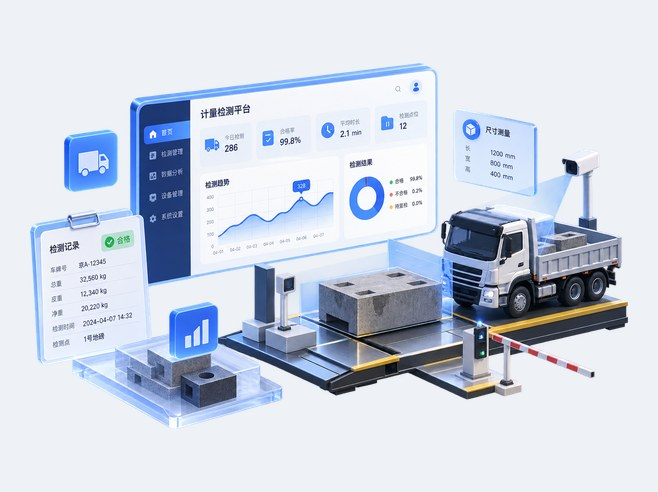
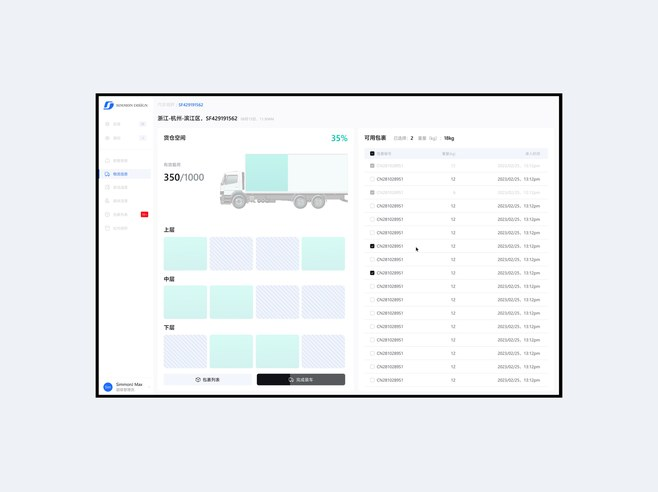
metrology: hero is the framed loading screen; cover uses the sent image
Mirrors the latest canvas save (v1789488974): the hero copy block is gone
and the grey band carries the framed cargo-space screenshot centred. The
Selected Work cover is the same shot on its grey ground, letterboxed to
658×492. Unused hero copy keys removed.

diff --git a/src/components/MetrologyPage.css b/src/components/MetrologyPage.css
@@ -24,17 +24,8 @@
 
 /* ---------- Hero ---------- */
 .mt-hero { width: 100%; background: var(--mt-stage); padding: 80px 0 0; }
-.mt-hero-content {
-  max-width: 1220px; margin: 0 auto; padding: 0 0 72px;
-  display: grid; grid-template-columns: repeat(2, minmax(0, 1fr)); gap: 48px; align-items: center;
-}
-.mt-hero-copy { display: flex; flex-direction: column; gap: 20px; }
-.mt-hero-kicker { display: flex; align-items: center; gap: 12px; font-size: 20px; color: var(--mt-body); }
-.mt-hero-mark { width: 36px; height: 36px; border-radius: 8px; background: var(--mt-blue); display: inline-flex; align-items: center; justify-content: center; flex: none; }
-.mt-hero-title { margin: 0; max-width: 560px; font-size: 56px; font-weight: 700; line-height: 1.15; letter-spacing: -0.01em; color: var(--mt-ink); }
-.mt-hero-sub { margin: 8px 0 0; font-size: 16px; color: var(--mt-muted); }
-.mt-hero-art { display: flex; align-items: center; justify-content: flex-end; }
-.mt-hero-art img { display: block; width: 100%; max-width: 640px; height: auto; }
+.mt-hero-content { max-width: 1220px; margin: 0 auto; padding: 0 0 72px; display: flex; justify-content: center; }
+.mt-hero-img { display: block; width: 100%; max-width: 953px; height: auto; }
 
 /* ---------- Main column ---------- */
 .mt-main { max-width: 1220px; margin: 0 auto; padding: 62px 0 120px; }
@@ -262,8 +253,6 @@
 
 @media (max-width: 1024px) {
   .mt-hero-content, .mt-main { padding-left: 40px; padding-right: 40px; }
-  .mt-hero-title { font-size: 44px; }
-  .mt-hero-art img { max-width: 520px; }
   .mt-photos--4 { grid-template-columns: repeat(2, minmax(0, 1fr)); }
   .mt-photos--cellar { grid-template-columns: repeat(3, minmax(0, 1fr)); }
   .mt-split--shot-left, .mt-split--shot-right { grid-template-columns: 1fr; }
@@ -276,11 +265,8 @@
 }
 
 @media (max-width: 768px) {
-  .mt-hero { padding: 96px 0 0; }
-  .mt-hero-content { grid-template-columns: 1fr; gap: 32px; padding: 0 20px 48px; }
-  .mt-hero-title { font-size: 34px; max-width: none; }
-  .mt-hero-kicker { font-size: 17px; }
-  .mt-hero-art { justify-content: center; }
+  .mt-hero { padding: 84px 0 0; }
+  .mt-hero-content { padding: 0 20px 40px; }
   .mt-main { padding: 48px 20px 80px; }
   .mt-meta { flex-wrap: wrap; gap: 24px 40px; margin-bottom: 40px; }
   .mt-title { font-size: 32px; }
@@ -317,7 +303,6 @@
 }
 
 @media (max-width: 480px) {
-  .mt-hero-title { font-size: 30px; }
   .mt-photos--4 { grid-template-columns: 1fr; }
   .mt-photo-quad { grid-template-columns: repeat(2, minmax(0, 1fr)); height: auto; }
   .mt-photo-quad img { height: 120px; }

diff --git a/src/components/MetrologyPage.jsx b/src/components/MetrologyPage.jsx
@@ -4,7 +4,7 @@ import { useCopy } from '../i18n/LanguageContext.jsx'
 import Rich from '../i18n/Rich.jsx'
 
 // Hero illustration + product screens
-import heroPlatform from '../assets/metrology/hero-platform.webp'
+import heroLoading from '../assets/metrology/hero-loading.webp'
 import uiDashboard from '../assets/metrology/ui-dashboard.jpg'
 import uiParcel from '../assets/metrology/ui-parcel.jpg'
 import uiParcelHover from '../assets/metrology/ui-parcel-hover.jpg'
@@ -99,24 +99,10 @@ export default function MetrologyPage() {
         <span>{t.back}</span>
       </a>
 
-      {/* Hero */}
+      {/* Hero — the framed loading screen, centred on the grey band */}
       <section className="mt-hero">
         <div className="mt-hero-content">
-          <div className="mt-hero-copy">
-            <div className="mt-hero-kicker">
-              <span className="mt-hero-mark" aria-hidden="true">
-                <svg width="20" height="20" viewBox="0 0 24 24" fill="none" stroke="#ffffff" strokeWidth="1.8" strokeLinecap="round" strokeLinejoin="round">
-                  <path d="M12 3v18M4 7h16M6 7l-3 7a3 3 0 0 0 6 0L6 7zM18 7l-3 7a3 3 0 0 0 6 0l-3-7z" />
-                </svg>
-              </span>
-              <span>{t.heroKicker}</span>
-            </div>
-            <h1 className="mt-hero-title">{t.heroTitle}</h1>
-            <p className="mt-hero-sub">{t.heroSub}</p>
-          </div>
-          <div className="mt-hero-art">
-            <img src={heroPlatform} alt={alts.hero} loading="eager" decoding="async" fetchpriority="high" />
-          </div>
+          <img className="mt-hero-img" src={heroLoading} alt={alts.hero} loading="eager" decoding="async" fetchpriority="high" />
         </div>
       </section>
 

diff --git a/src/i18n/copy/metrology.js b/src/i18n/copy/metrology.js
@@ -8,9 +8,6 @@ export default {
   en: {
     back: 'Back',
 
-    heroKicker: 'Production Safety Metrology Platform',
-    heroTitle: 'METROLOGY SECURITY SYSTEM DESIGN',
-    heroSub: 'Design notes from a standard production-process project',
 
     metaRoleLabel: 'Role',
     metaRoleValue: 'Product Designer',
@@ -175,7 +172,7 @@ export default {
     ],
 
     alts: {
-      hero: 'Metrology platform — 3D illustration of the dashboard, a truck scale and reference weights',
+      hero: 'Cargo-space loading screen: truck load rate, rack tiers and the available-parcel list',
       dashboard: 'Dashboard: overview, late arrivals, daily plan, available trucks, abnormal temperatures',
       parcel: 'Parcel list with cell annotations',
       parcelHover: 'Parcel list with grouped columns and a hovered row',
@@ -193,9 +190,6 @@ export default {
   zh: {
     back: '返回',
 
-    heroKicker: '安全生产计量管理平台',
-    heroTitle: 'METROLOGY SECURITY SYSTEM DESIGN',
-    heroSub: '标准生产流程项目设计整理',
 
     metaRoleLabel: '角色',
     metaRoleValue: '产品设计师',
@@ -360,7 +354,7 @@ export default {
     ],
 
     alts: {
-      hero: '计量管理平台——看板、汽车衡与砝码的 3D 示意图',
+      hero: '货仓装车页面：车辆装载率、货架分层与可用包裹列表',
       dashboard: '数据看板：总览、延迟抵达、日常计划、可用卡车、异常温度',
       parcel: '包裹列表与单元格标注',
       parcelHover: '包裹列表：分组列与悬停高亮行',
